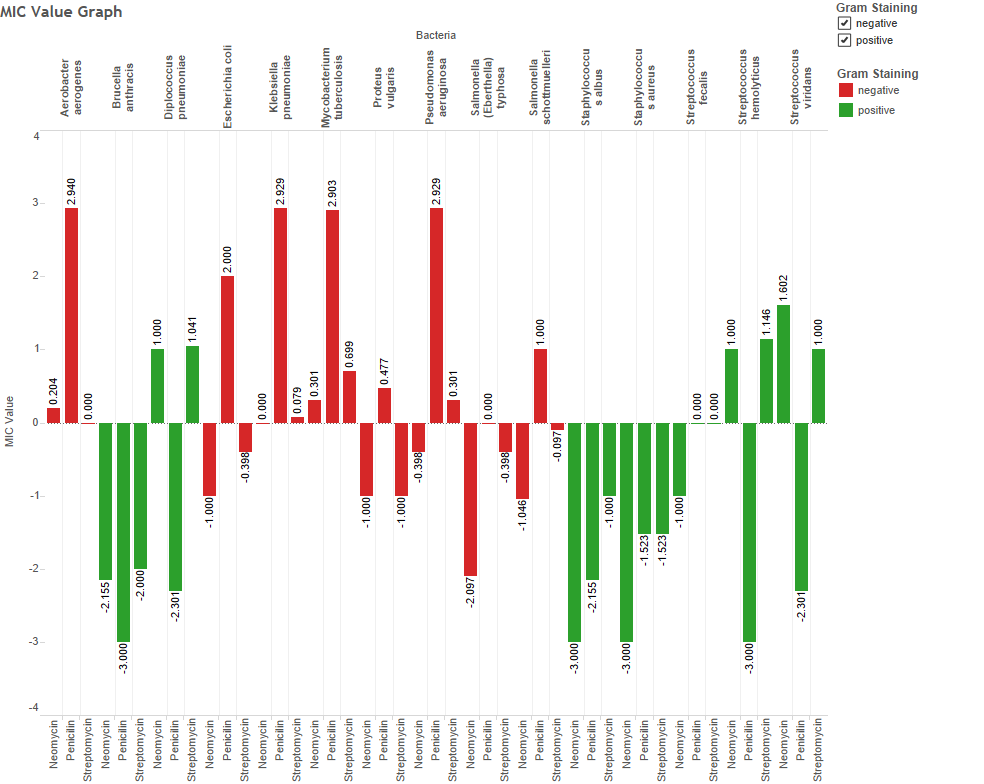
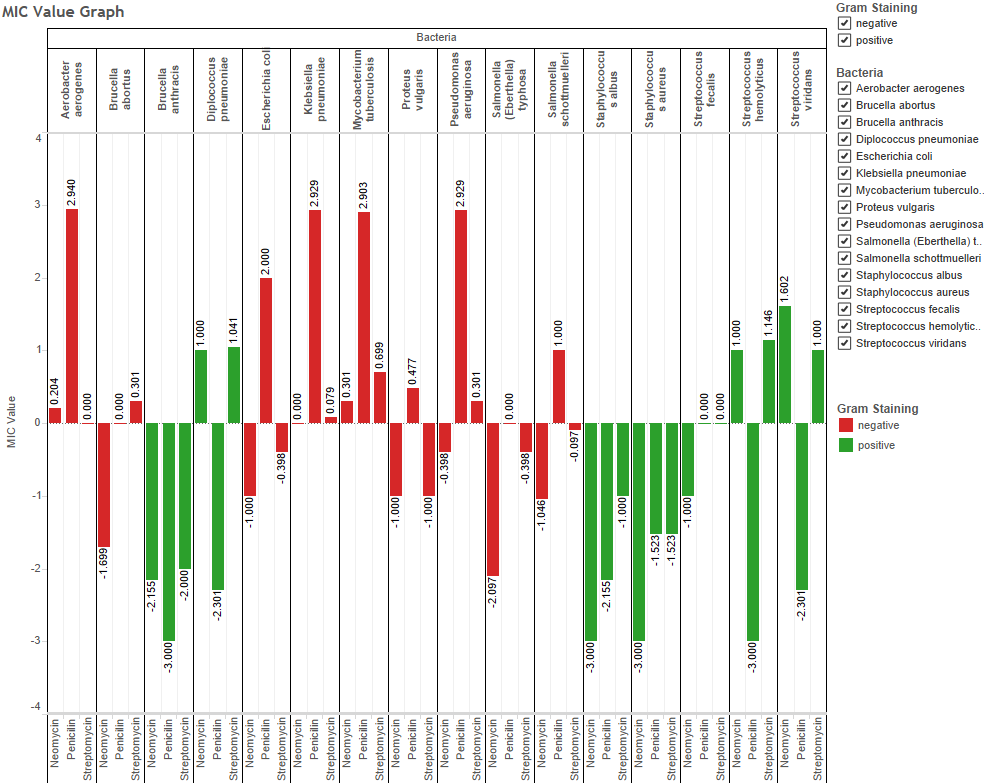
Final

diff --git a/index.html b/index.html
@@ -31,7 +31,8 @@
 		
 		<li>Green color stands for Positive Gram stain and Red color is for Negative Gram stain.
 		<li>The lower the MIC value, the better the performance of the drug against that bacteria.
-		<li>Since the range of the values were quite wide, we have taken the log (base 10) of those value to present them visually.
+		<li>Since the range of the values were quite wide, we have taken the log (base 10) of those value to represent them visually.
+		<li>Multiple bars are presented in order to compare which antibiotics work the best for that particular bacteria.
 	</div>
         <section id="downloads" class="clearfix">
           
